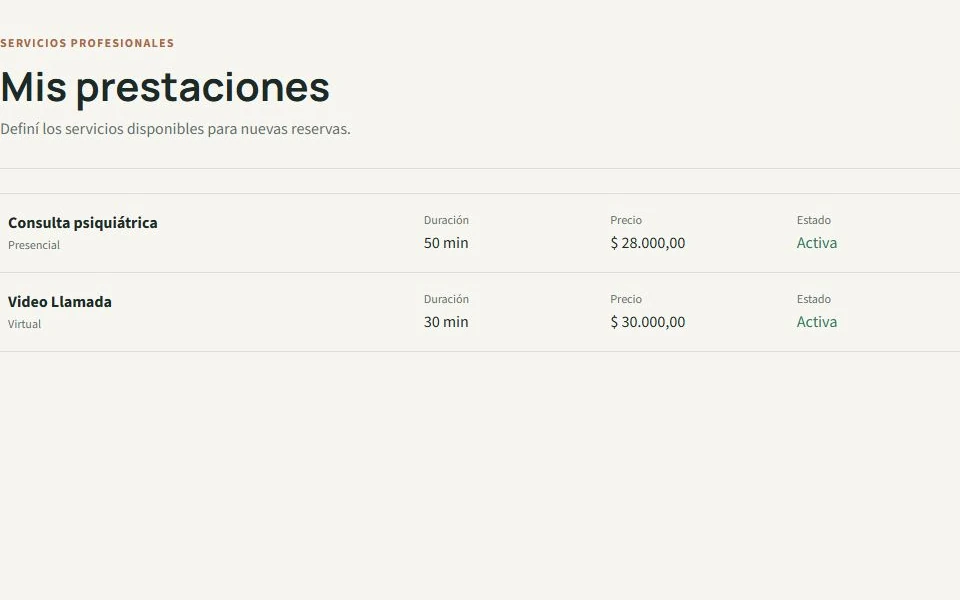
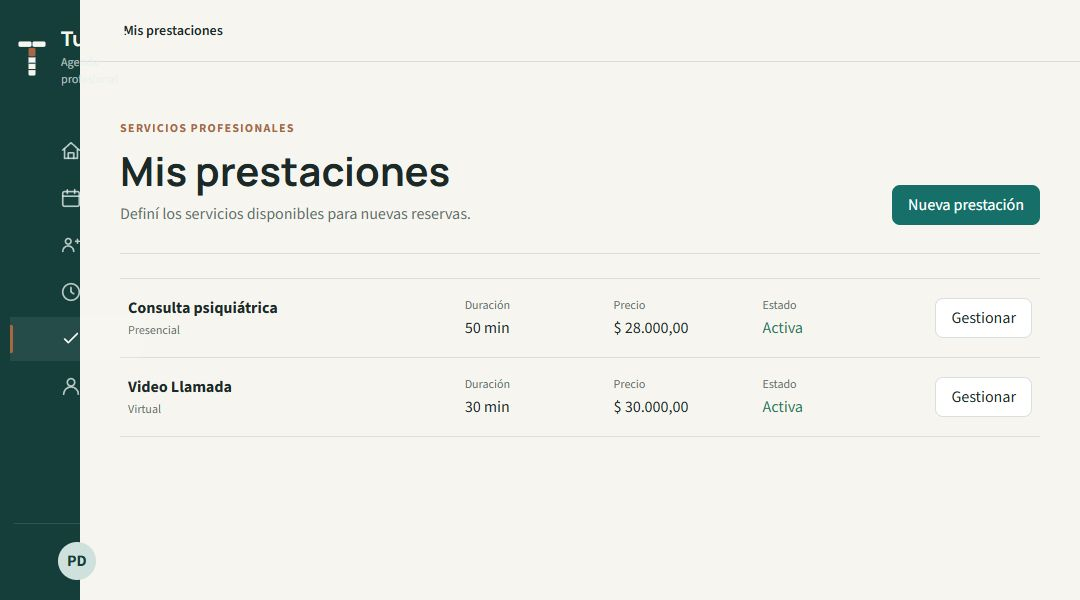
feat: refine landing visuals and pricing

diff --git a/frontend/src/landing/LandingPage.css b/frontend/src/landing/LandingPage.css
@@ -10,11 +10,10 @@
 @media(max-width:600px){.landing-container{width:min(100% - 32px,1180px)}.landing-logo img{width:152px}.hero{padding:48px 0}.hero h1{font-size:2.45rem}.hero__lead{font-size:1.05rem}.button-row{flex-direction:column}.button-row .button{width:100%}.hero-devices{width:108%;min-height:300px;margin-left:-4%}.hero-device--notebook{top:14px;width:86%;padding:6px 6px 9px;border-radius:9px}.hero-device__base{bottom:-9px;height:9px}.hero-device--tablet{right:1%;bottom:18px;width:47%;padding:5px;border-radius:11px}.hero-device--phone{bottom:0;left:41%;width:19%;padding:4px;border-radius:14px}.hero-device__speaker{top:6px;height:2px}.product-placeholder{padding:12px}.landing-section{padding:75px 0}.features__grid{grid-template-columns:1fr}.features article{min-height:0;padding:28px}.showcase__grid{gap:38px}.security__list{grid-template-columns:1fr}.dark-cta__inner{align-items:stretch;flex-direction:column}.landing-footer__grid{grid-template-columns:1fr 1fr;gap:38px 25px}.landing-footer__grid>div:first-child{grid-column:1/-1}.landing-footer__grid>div:last-child{grid-column:auto}}@media(prefers-reduced-motion:reduce){.landing-page *{scroll-behavior:auto!important;transition:none!important}}
 
 /* Ajustes finales de escala y legibilidad comercial. */
-.landing-header__inner{min-height:84px}.landing-logo img{width:220px}.showcase__grid{grid-template-columns:minmax(0,.82fr) minmax(0,1.18fr);gap:64px}.showcase--reverse .showcase__grid{grid-template-columns:minmax(0,1.18fr) minmax(0,.82fr)}.security__list{column-gap:32px;row-gap:19px;margin-top:28px}.security__list span{gap:15px;line-height:1.35}.security__list .landing-icon{width:22px;height:22px}.security .product-image{width:108%;max-width:none;justify-self:end}.dark-cta--final .button-row .button{width:210px;min-height:50px;padding:12px 24px;border-radius:8px}.hero-device--phone img{object-position:center top}
+.landing-header__inner{min-height:84px}.landing-logo img{width:220px}.showcase__grid{grid-template-columns:minmax(0,.82fr) minmax(0,1.18fr);gap:64px}.showcase--reverse .showcase__grid{grid-template-columns:minmax(0,1.18fr) minmax(0,.82fr)}.security__list{column-gap:32px;row-gap:19px;margin-top:28px}.security__list span{gap:15px;line-height:1.35}.security__list .landing-icon{width:22px;height:22px}.dark-cta--final .button-row .button{width:210px;min-height:50px;padding:12px 24px;border-radius:8px}.hero-device--phone img{object-position:center top}
 
-@media(max-width:860px){.landing-header__inner{min-height:76px}.landing-logo img{width:190px}.landing-nav{top:76px}.showcase__grid,.showcase--reverse .showcase__grid{grid-template-columns:1fr}.security .product-image{width:100%;max-width:700px;justify-self:start}}
+@media(max-width:860px){.landing-header__inner{min-height:76px}.landing-logo img{width:190px}.landing-nav{top:76px}.showcase__grid,.showcase--reverse .showcase__grid{grid-template-columns:1fr}}
 @media(max-width:600px){.landing-logo img{width:178px}.security__list{column-gap:0;row-gap:17px;margin-top:24px}.security__list span{gap:14px}.dark-cta--final .button-row .button{width:100%}}
 
 /* Encuadres específicos y equilibrio de los planes comerciales. */
-.product-image--prestaciones img,.product-image--security img{object-fit:contain;object-position:center}.product-image--security{display:flex;align-items:center;justify-content:center}.security .product-image{width:100%;justify-self:center}.plan:not(.plan--featured) .plan__status{background:var(--warm);color:var(--accent)}.plan__price{font-size:clamp(1.35rem,2vw,1.65rem);white-space:nowrap}.plan ul{min-height:0}.pricing__note{margin-top:18px!important;color:var(--muted);font-size:.88rem}
-@media(max-width:860px){.security .product-image{justify-self:center}}
+.product-image--prestaciones{aspect-ratio:1080/600}.product-image--security{aspect-ratio:720/760}.product-image--prestaciones img,.product-image--security img{object-fit:contain;object-position:center}.plan:not(.plan--featured) .plan__status{background:var(--warm);color:var(--accent)}.plan__price{font-size:clamp(1.35rem,2vw,1.65rem);white-space:nowrap}.plan ul{min-height:0}.pricing__note{margin-top:18px!important;color:var(--muted);font-size:.88rem}

diff --git a/frontend/src/landing/landingConfig.ts b/frontend/src/landing/landingConfig.ts
@@ -6,7 +6,7 @@ export const LANDING_ASSETS = {
   prestaciones: "/landing/prestaciones.webp",
   login: "/landing/login.webp",
   loginMobile: "/landing/login-mobile.webp",
-  loginSecurity: "/landing/login-security.webp",
+  loginSecurity: "/landing/login.webp",
 } as const;
 
 export const WHATSAPP_URL = "";
